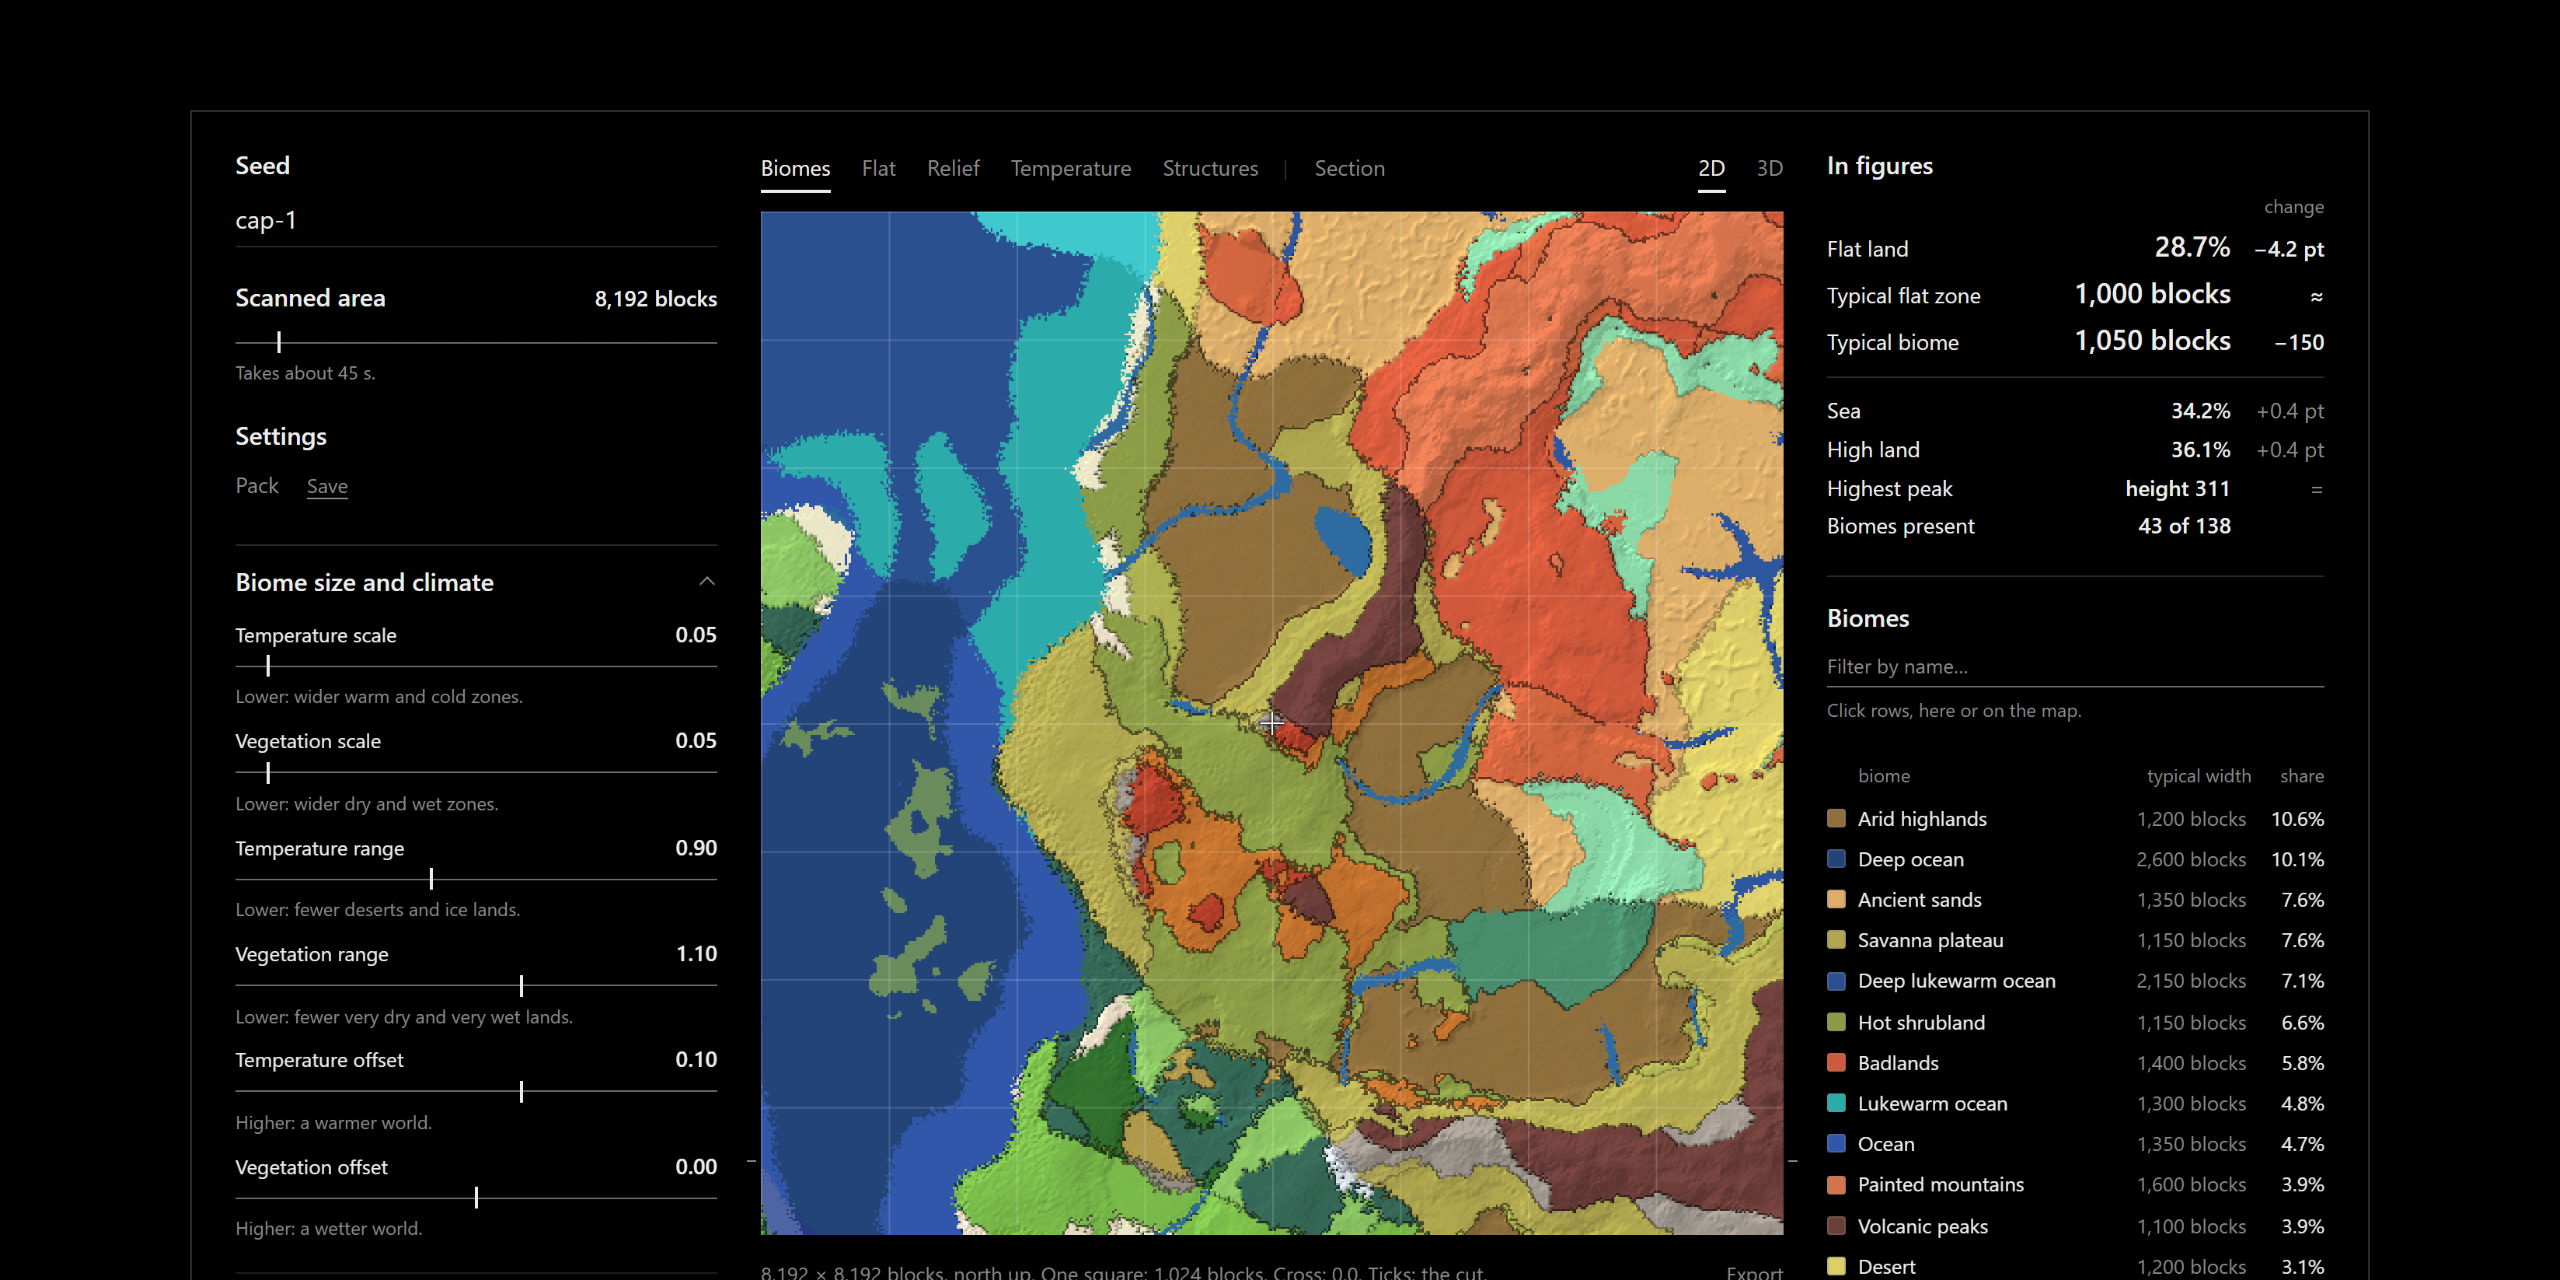
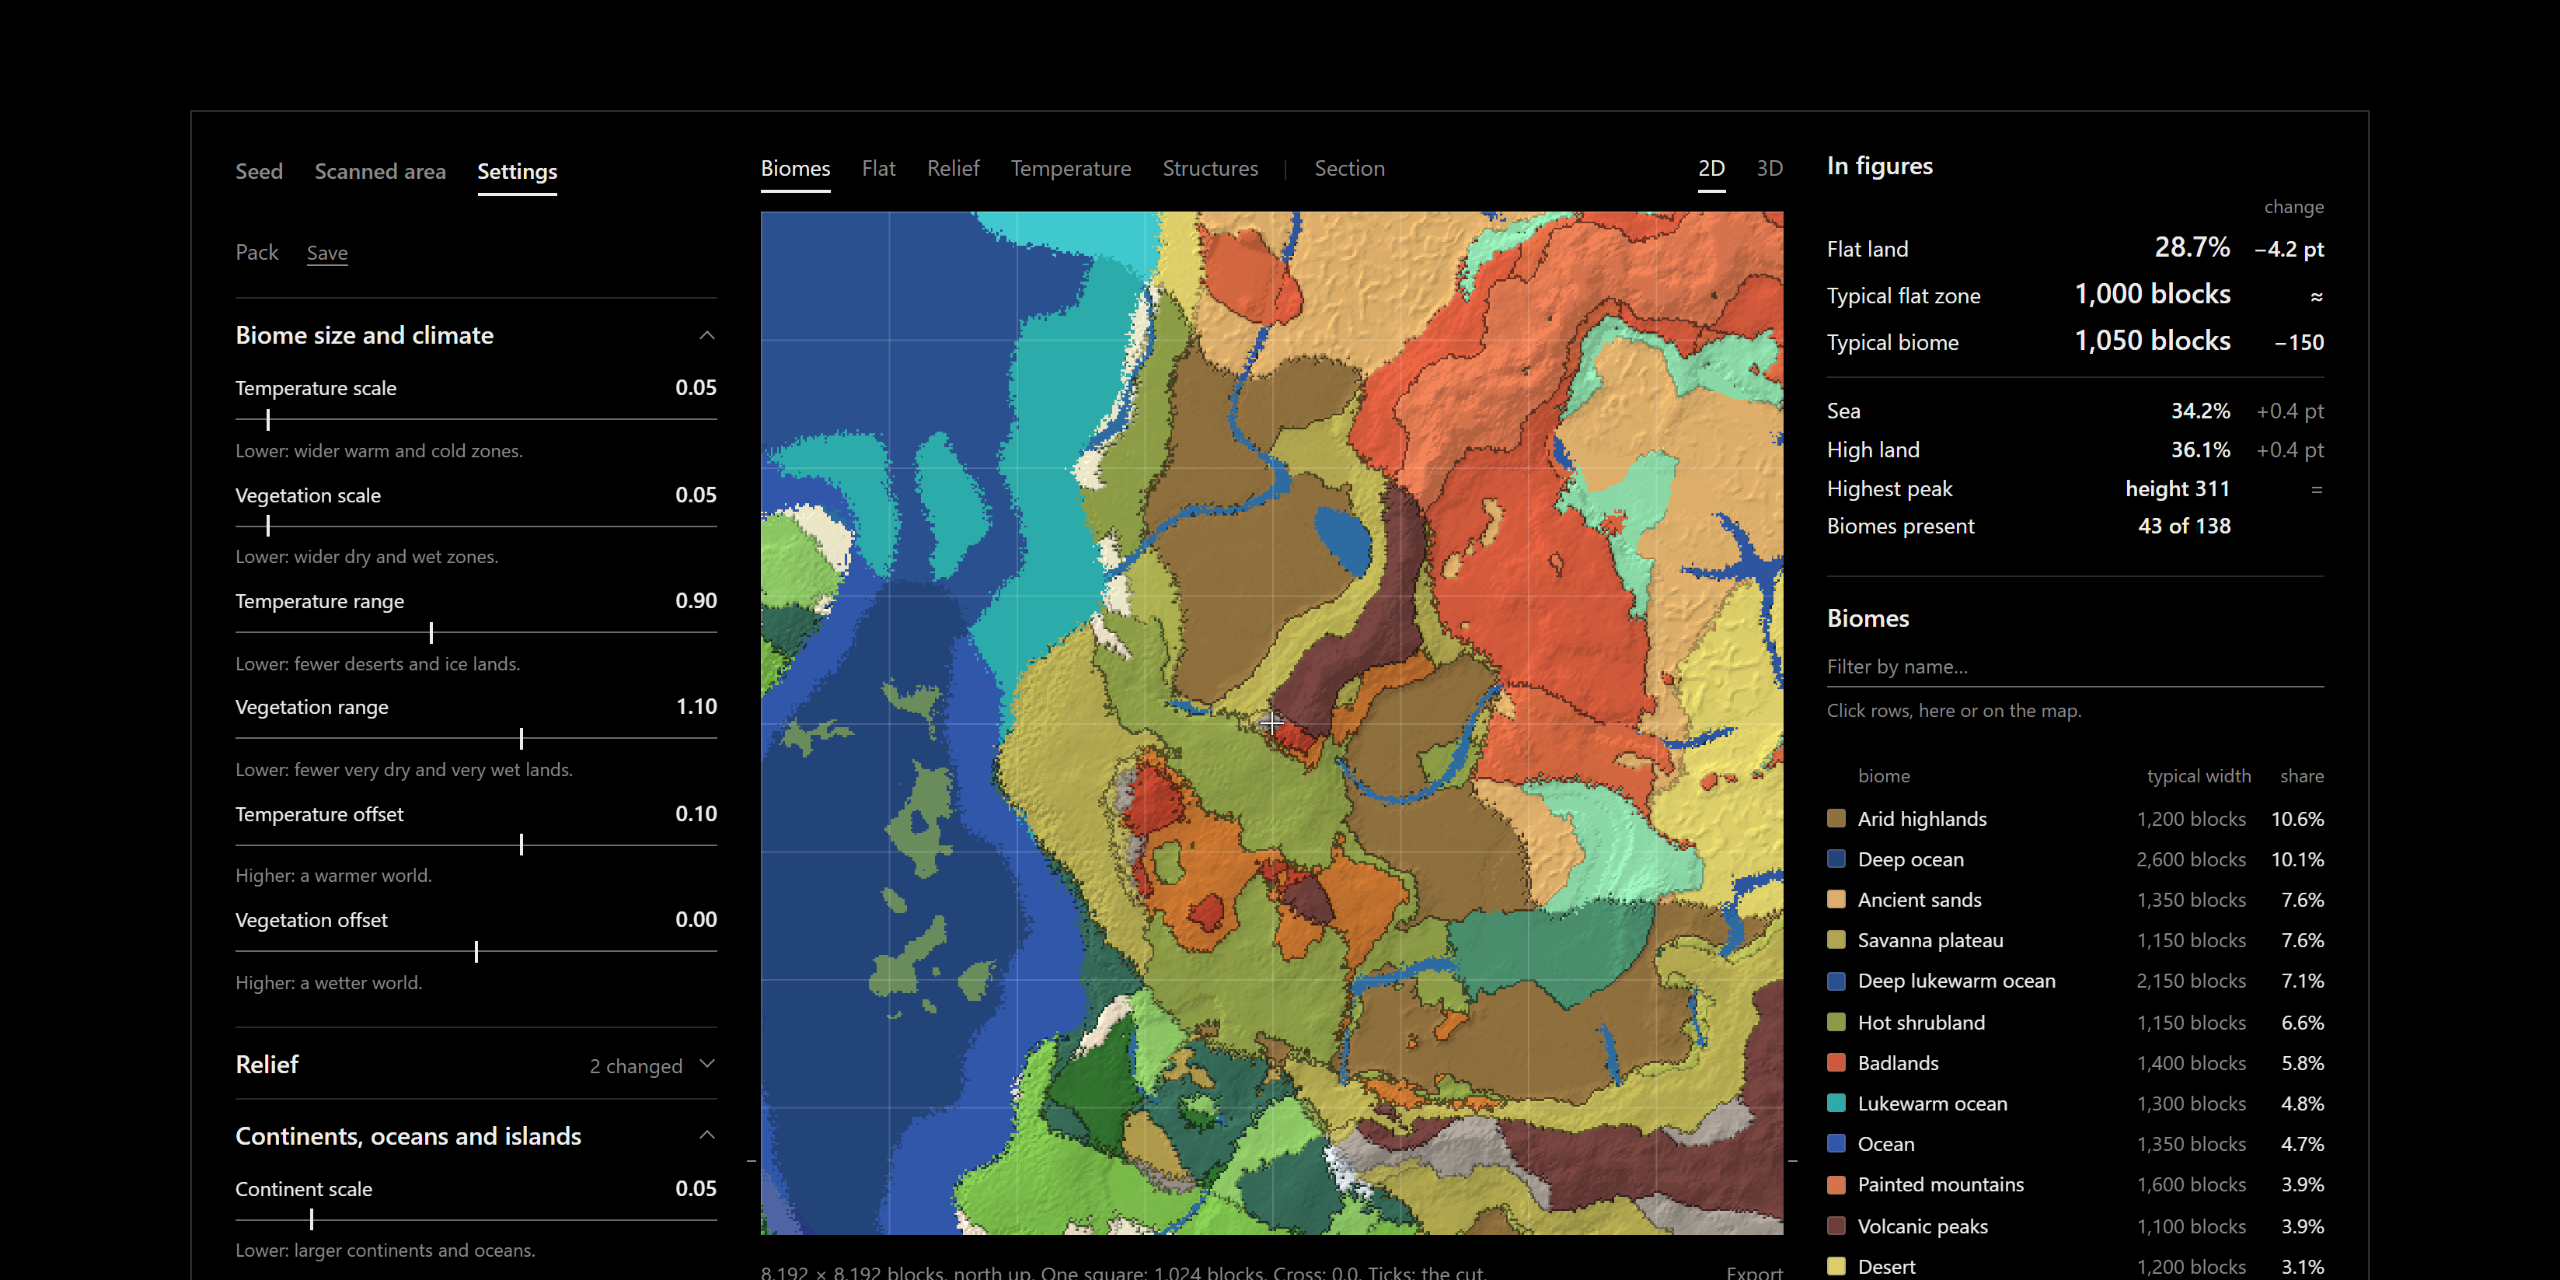
docs: the boards made again with the tabs of the left column

diff --git a/README.md b/README.md
@@ -8,7 +8,7 @@ It was written while tuning a modpack's terrain, where every try used to mean st
 
 > **Personal project.** Windows only, driven by PowerShell scripts.
 
-<img src="docs/media/board-window.png" alt="The preview window: seed, width of the scanned area and the Tectonic settings in groups on the left, the map in the middle, the figures and the list of biomes on the right." width="100%">
+<img src="docs/media/board-window.png" alt="The preview window: the Tectonic settings in groups on the left, under the three tabs that swap them for the seed or the width of the scanned area, the map in the middle, the figures and the list of biomes on the right." width="100%">
 
 - **The real generator, without the world.** A throwaway dedicated server starts with the pack, and a small mod asks the generator two questions on a grid, one point every 16 blocks: how high is the ground, which biome is at the surface. No chunk is generated. Trees and caves are therefore not on the map, and a structure is a point where it would start.
 - **A seed and every Tectonic setting.** Each setting of the pack's [Tectonic](https://modrinth.com/mod/tectonic) config has its control, read from the file itself: a slider for a number, a slider of two places for a switch. They come in groups (biomes and climate, relief, continents with oceans and islands, caves, and what the map does not draw); a setting the page does not know yet still shows, with Tectonic's own comment. They start at the pack's values; a changed one keeps the pack's value beside it. Sets of values can be kept under a name.
